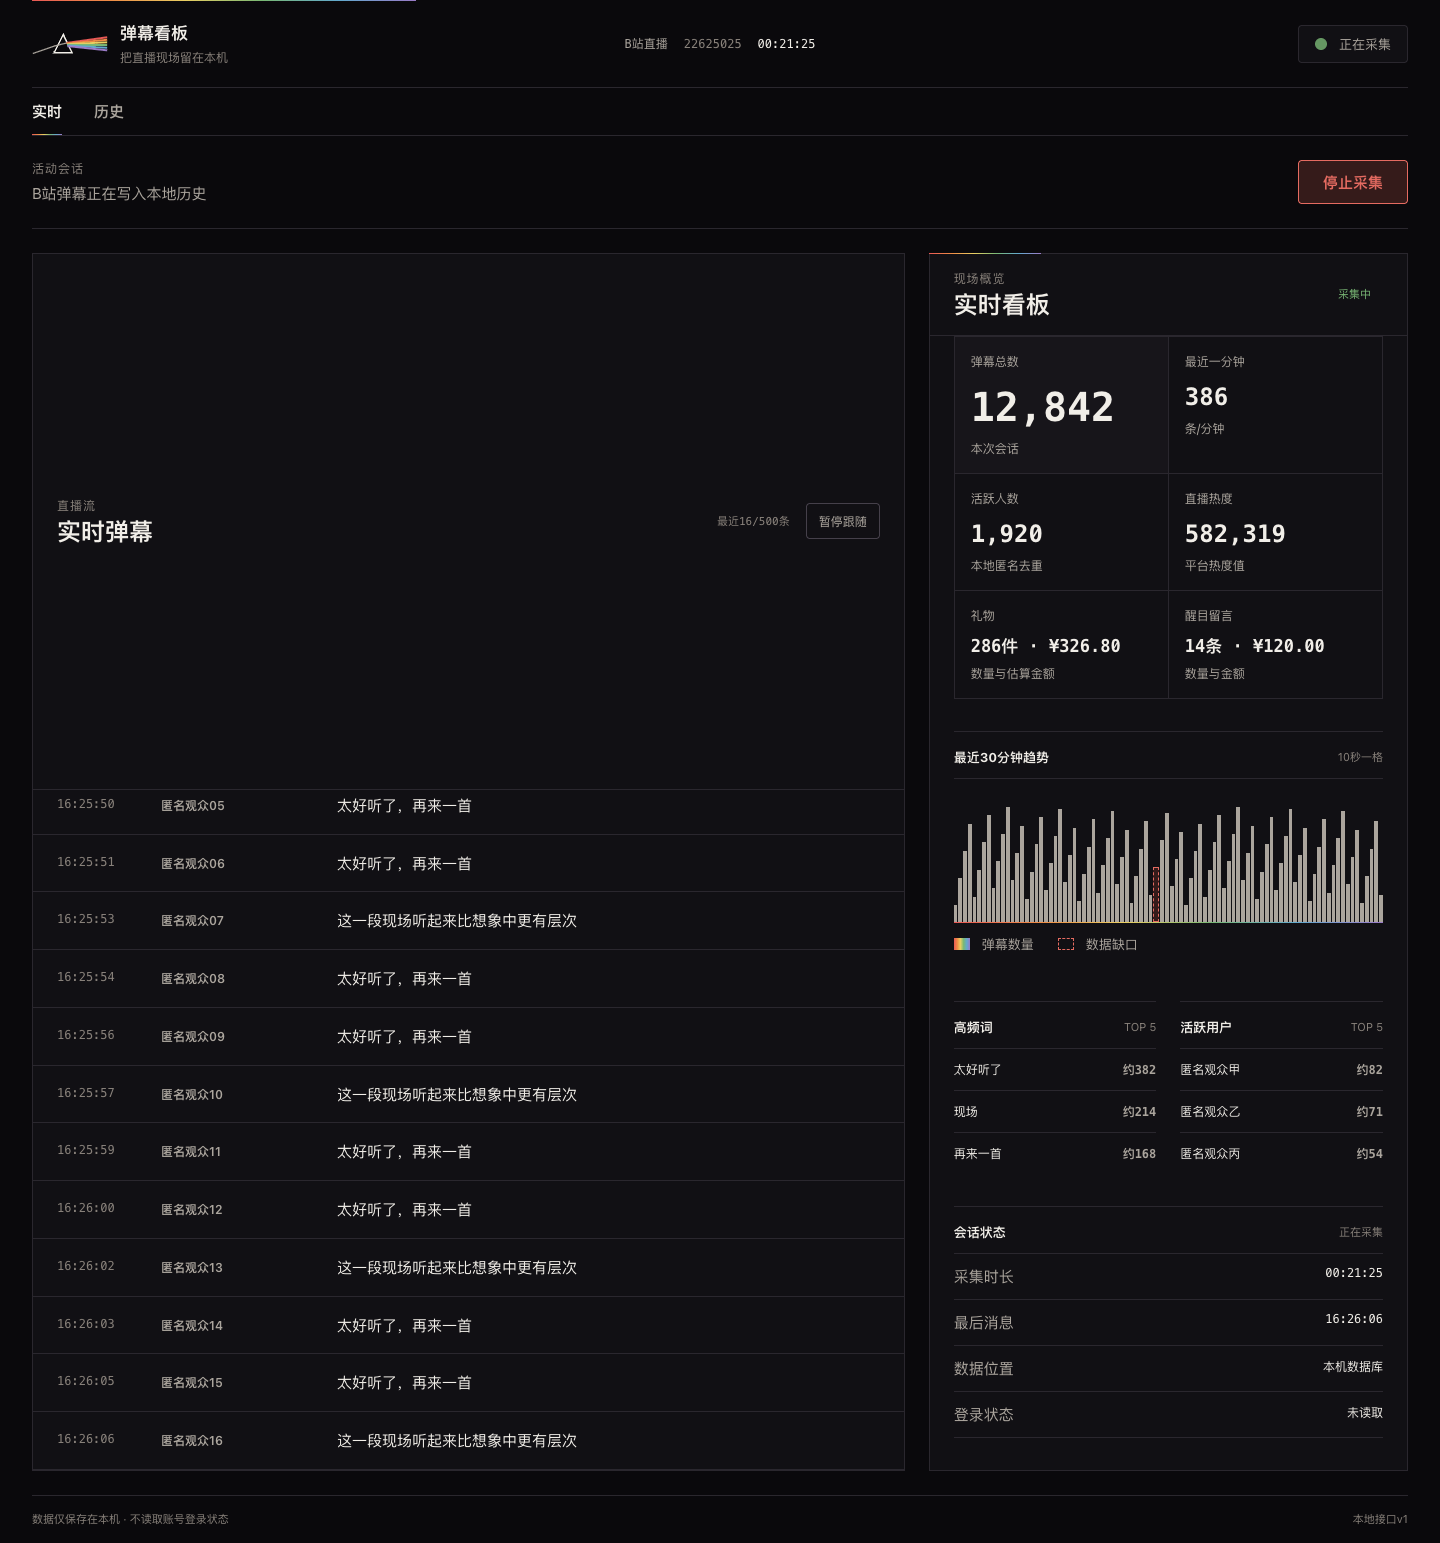
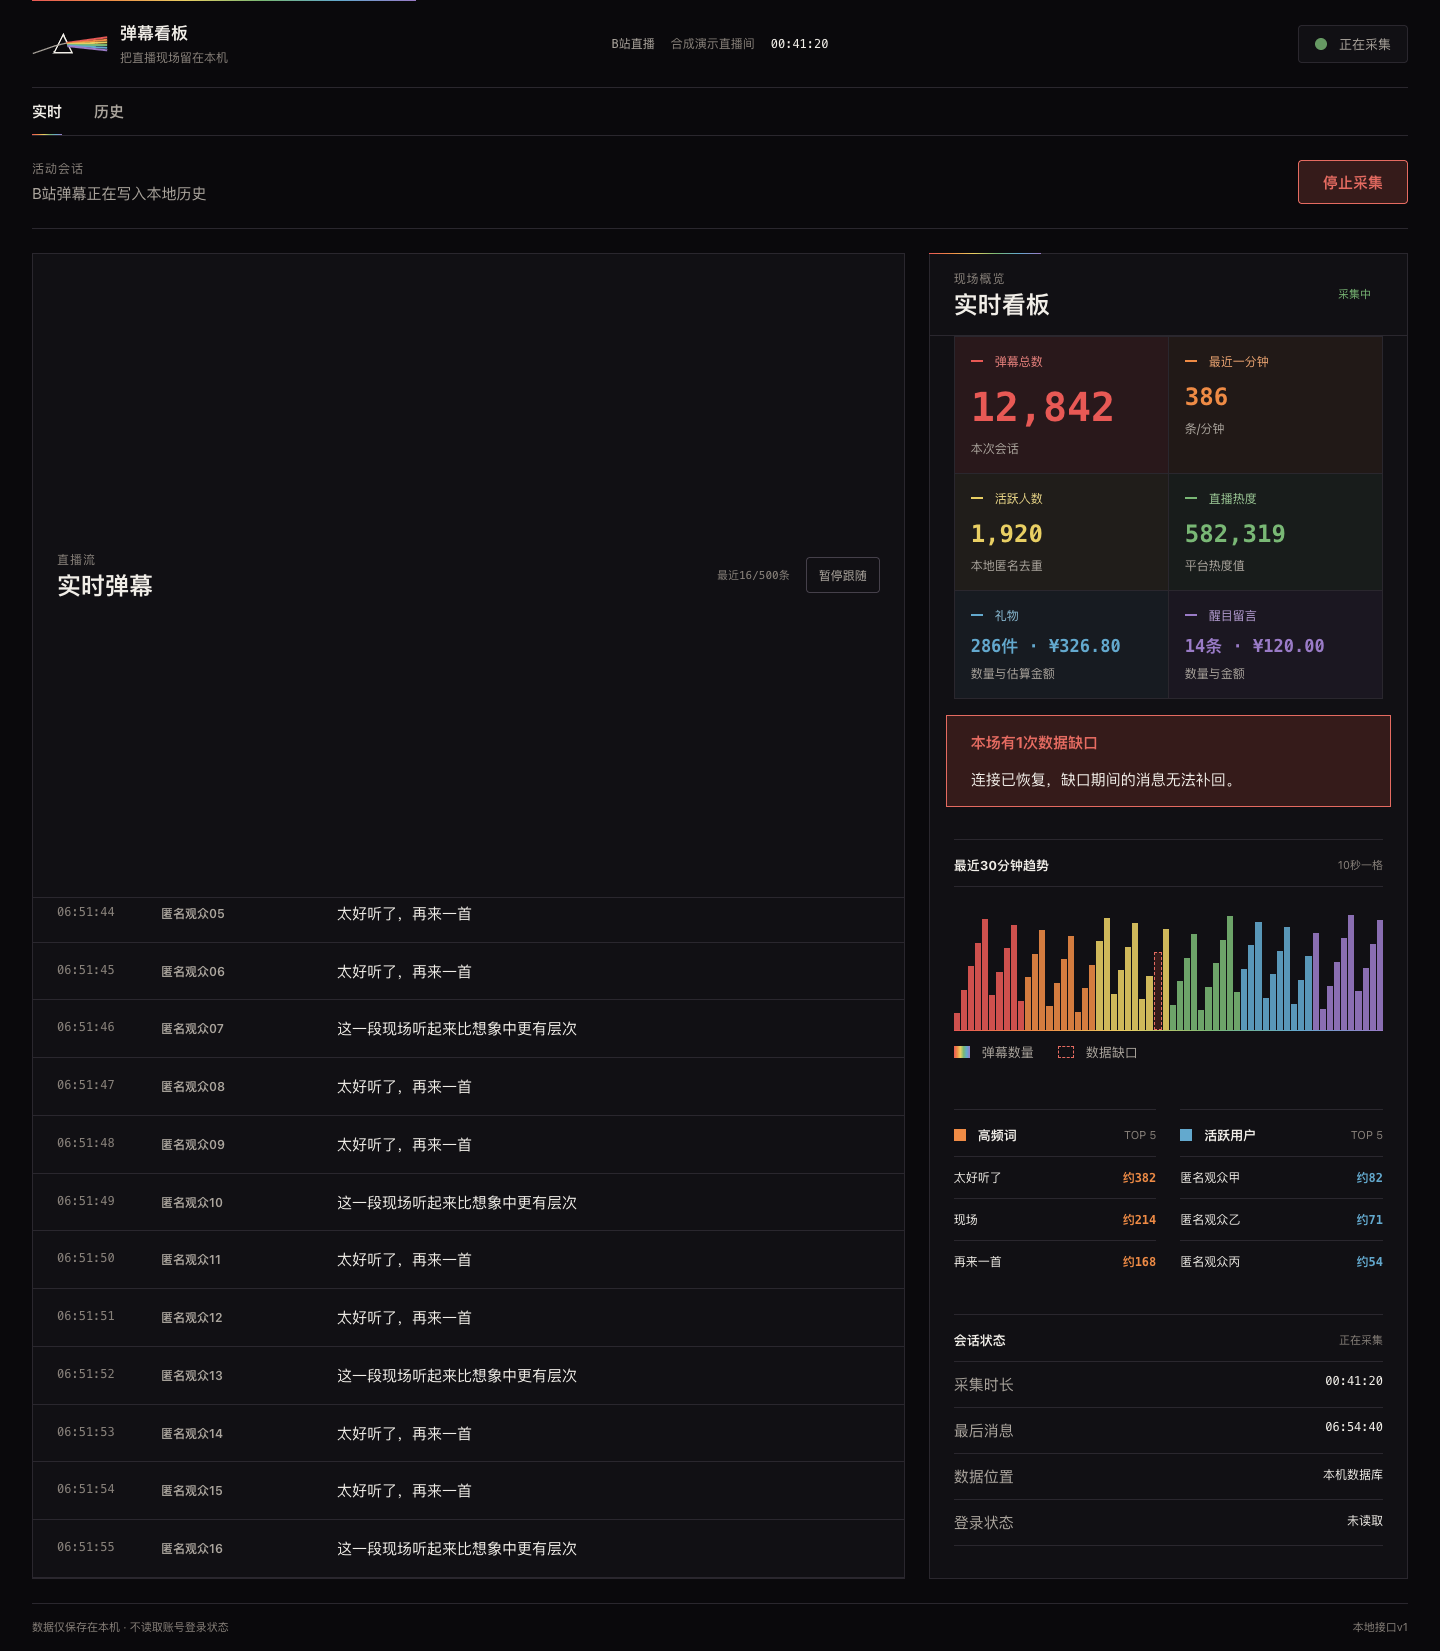
增强实时看板色彩辨识度

diff --git a/src/renderer/app.tsx b/src/renderer/app.tsx
@@ -118,17 +118,19 @@ function MetricCard({
   label,
   value,
   note,
+  tone,
   unavailable = false,
   primary = false,
 }: {
   label: string
   value: string
   note: string
+  tone: 'red' | 'orange' | 'yellow' | 'green' | 'blue' | 'violet'
   unavailable?: boolean
   primary?: boolean
 }) {
   return (
-    <div className={`metric-card ${primary ? 'metric-primary' : ''}`}>
+    <div className={`metric-card metric-tone-${tone} ${primary ? 'metric-primary' : ''}`}>
       <dt>{label}</dt>
       <dd className={unavailable ? 'metric-unavailable' : undefined}>
         {unavailable ? '不可用' : value}
@@ -150,14 +152,17 @@ function TrendChart({ trend }: { trend: LiveSnapshot['trend'] }) {
         {trend.length === 0 ? (
           <p className="signal-empty">收到弹幕后生成趋势</p>
         ) : (
-          trend.map((bucket) => (
-            <span
-              className={bucket.hasGap ? 'trend-gap' : ''}
-              key={bucket.bucketStartMs}
-              title={`${formatClock(bucket.bucketStartMs)}，${bucket.danmakuCount}条${bucket.hasGap ? '，数据缺口' : ''}`}
-              style={{ height: `${Math.max(8, (bucket.danmakuCount / max) * 100)}%` }}
-            />
-          ))
+          trend.map((bucket, index) => {
+            const spectrumBand = Math.min(5, Math.floor((index * 6) / trend.length))
+            return (
+              <span
+                className={bucket.hasGap ? 'trend-gap' : `trend-spectrum-${spectrumBand}`}
+                key={bucket.bucketStartMs}
+                title={`${formatClock(bucket.bucketStartMs)}，${bucket.danmakuCount}条${bucket.hasGap ? '，数据缺口' : ''}`}
+                style={{ height: `${Math.max(8, (bucket.danmakuCount / max) * 100)}%` }}
+              />
+            )
+          })
         )}
       </div>
       <p className="trend-legend">
@@ -173,13 +178,15 @@ function RankingCard({
   title,
   empty,
   items,
+  tone,
 }: {
   title: string
   empty: string
   items: Array<{ label: string; count: number }>
+  tone: 'warm' | 'cool'
 }) {
   return (
-    <section className="signal-card ranking-card">
+    <section className={`signal-card ranking-card ranking-tone-${tone}`}>
       <div className="section-heading">
         <h3>{title}</h3>
         <span>TOP 5</span>
@@ -677,34 +684,40 @@ export function App() {
                   label="弹幕总数"
                   value={snapshot.totalDanmaku.toLocaleString('zh-CN')}
                   note="本次会话"
+                  tone="red"
                   primary
                 />
                 <MetricCard
                   label="最近一分钟"
                   value={snapshot.danmakuPerMinute.toLocaleString('zh-CN')}
                   note="条/分钟"
+                  tone="orange"
                 />
                 <MetricCard
                   label="活跃人数"
                   value={snapshot.activeSpeakers.toLocaleString('zh-CN')}
                   note="本地匿名去重"
+                  tone="yellow"
                 />
                 <MetricCard
                   label="直播热度"
                   value={(snapshot.metrics.popularity ?? 0).toLocaleString('zh-CN')}
                   note="平台热度值"
+                  tone="green"
                   unavailable={currentUnavailable.popularity}
                 />
                 <MetricCard
                   label="礼物"
                   value={`${snapshot.metrics.giftCount.toLocaleString('zh-CN')}件 · ${formatMoney(snapshot.metrics.giftValueMilliCny)}`}
                   note="数量与估算金额"
+                  tone="blue"
                   unavailable={currentUnavailable.gifts}
                 />
                 <MetricCard
                   label="醒目留言"
                   value={`${snapshot.metrics.superChatCount.toLocaleString('zh-CN')}条 · ${formatMoney(snapshot.metrics.superChatValueMilliCny)}`}
                   note="数量与金额"
+                  tone="violet"
                   unavailable={currentUnavailable.superChats}
                 />
               </dl>
@@ -729,6 +742,7 @@ export function App() {
                     label: item.term,
                     count: item.estimatedCount,
                   }))}
+                  tone="warm"
                 />
                 <RankingCard
                   title="活跃用户"
@@ -737,6 +751,7 @@ export function App() {
                     label: item.displayName,
                     count: item.danmakuCount,
                   }))}
+                  tone="cool"
                 />
               </div>
 

diff --git a/src/renderer/styles/prism-theme.css b/src/renderer/styles/prism-theme.css
@@ -354,24 +354,66 @@ body {
 }
 
 .metric-card {
+  --metric-accent: var(--color-text);
+
   padding: var(--space-3);
   border: 0;
   border-right: var(--line-thin) solid var(--color-line);
   border-bottom: var(--line-thin) solid var(--color-line);
-  background: transparent;
+  background: color-mix(in srgb, var(--metric-accent) 7%, var(--color-panel));
 }
 
 .metric-primary {
-  background: var(--color-panel-raised);
+  background: color-mix(in srgb, var(--metric-accent) 11%, var(--color-panel));
+}
+
+.metric-tone-red {
+  --metric-accent: var(--color-spectrum-red);
+}
+
+.metric-tone-orange {
+  --metric-accent: var(--color-spectrum-orange);
+}
+
+.metric-tone-yellow {
+  --metric-accent: var(--color-spectrum-yellow);
+}
+
+.metric-tone-green {
+  --metric-accent: var(--color-spectrum-green);
+}
+
+.metric-tone-blue {
+  --metric-accent: var(--color-spectrum-blue);
+}
+
+.metric-tone-violet {
+  --metric-accent: var(--color-spectrum-violet);
+}
+
+.metric-card dt {
+  display: flex;
+  align-items: center;
+  gap: var(--space-2);
+  color: color-mix(in srgb, var(--metric-accent) 72%, var(--color-text));
+}
+
+.metric-card dt::before {
+  width: var(--space-2);
+  height: calc(var(--line-thin) * 2);
+  flex: none;
+  background: var(--metric-accent);
+  content: '';
 }
 
 .metric-card dd {
+  color: var(--metric-accent);
   font-size: var(--font-size-title);
   font-weight: 600;
 }
 
 .metric-card.metric-primary dd {
-  color: var(--color-text);
+  color: var(--metric-accent);
   font-size: var(--font-size-metric-hero);
 }
 
@@ -422,11 +464,37 @@ body {
   min-width: 2px;
   border-radius: 0;
   background: var(--color-text-muted);
+  opacity: 0.88;
+}
+
+.trend-bars > span.trend-spectrum-0 {
+  background: var(--color-spectrum-red);
+}
+
+.trend-bars > span.trend-spectrum-1 {
+  background: var(--color-spectrum-orange);
+}
+
+.trend-bars > span.trend-spectrum-2 {
+  background: var(--color-spectrum-yellow);
+}
+
+.trend-bars > span.trend-spectrum-3 {
+  background: var(--color-spectrum-green);
+}
+
+.trend-bars > span.trend-spectrum-4 {
+  background: var(--color-spectrum-blue);
+}
+
+.trend-bars > span.trend-spectrum-5 {
+  background: var(--color-spectrum-violet);
 }
 
 .trend-bars > span.trend-gap {
   border-color: var(--color-coral);
   background: var(--color-coral-soft);
+  opacity: 1;
 }
 
 .trend-legend i {
@@ -447,11 +515,35 @@ body {
 }
 
 .ranking-card {
+  --ranking-accent: var(--color-text-muted);
+
   padding: var(--space-3) 0 0;
 }
 
+.ranking-tone-warm {
+  --ranking-accent: var(--color-spectrum-orange);
+}
+
+.ranking-tone-cool {
+  --ranking-accent: var(--color-spectrum-blue);
+}
+
+.ranking-card .section-heading h3 {
+  display: flex;
+  align-items: center;
+  gap: var(--space-2);
+}
+
+.ranking-card .section-heading h3::before {
+  width: var(--space-2);
+  height: var(--space-2);
+  flex: none;
+  background: var(--ranking-accent);
+  content: '';
+}
+
 .ranking-card li strong {
-  color: var(--color-text-muted);
+  color: var(--ranking-accent);
 }
 
 .section-heading > span {

diff --git a/tests/unit/app.test.tsx b/tests/unit/app.test.tsx
@@ -160,6 +160,32 @@ describe('App', () => {
     expect(within(dashboard).queryByText('¥0.00')).not.toBeInTheDocument()
   })
 
+  it('实时看板使用光谱区分指标、趋势与排行类别', async () => {
+    const { emit } = installApi()
+    render(<App />)
+    await screen.findByText('实时弹幕')
+
+    act(() => {
+      emit({
+        ...idleSnapshot,
+        trend: Array.from({ length: 6 }, (_, index) => ({
+          bucketStartMs: 1_700_000_000_000 + index * 10_000,
+          danmakuCount: index + 1,
+          hasGap: index === 3,
+        })),
+        keywords: [{ term: '合成高频词', estimatedCount: 12, errorBound: 1 }],
+        activeUsers: [{ displayName: '匿名观众甲', danmakuCount: 8 }],
+      })
+    })
+
+    const dashboard = screen.getByRole('complementary', { name: '实时看板' })
+    expect(dashboard.querySelectorAll('[class*="metric-tone-"]')).toHaveLength(6)
+    expect(dashboard.querySelectorAll('[class*="trend-spectrum-"]')).toHaveLength(5)
+    expect(dashboard.querySelector('.trend-gap')).toBeInTheDocument()
+    expect(dashboard.querySelector('.ranking-tone-warm')).toHaveTextContent('合成高频词')
+    expect(dashboard.querySelector('.ranking-tone-cool')).toHaveTextContent('匿名观众甲')
+  })
+
   it('可查看历史、搜索弹幕，并在二次确认后删除整场', async () => {
     const { api } = installApi()
     render(<App />)

diff --git a/DESIGN.md b/DESIGN.md
@@ -65,12 +65,12 @@ components:
 
 - 平面、低饱和、无网格背景。
 - 大区域靠明度和留白分层，边线保持细而克制。
-- 光谱作为连续整体使用，不拆成四处散落的霓虹强调色。
+- 光谱优先作为连续整体使用；实时看板允许把同一束光按固定顺序分配给相邻指标，不能随机散落或改变顺序。
 - 时间与数字可使用等宽字体，标题、控件和正文使用中文系统无衬线字体。
 
 ## Colors
 
-中性色承担绝大多数界面面积，光谱颜色只服务折射图形与趋势数据。
+中性色承担绝大多数界面面积，光谱颜色服务折射图形、趋势数据和看板类别辨识。
 
 ### Primary
 
@@ -88,7 +88,7 @@ components:
 
 ### Named Rules
 
-**The One Spectrum Rule.** 光谱每个视区只允许形成一个主要视觉运动，不能给每张卡片单独加彩色描边。
+**The One Spectrum Rule.** 光谱每个视区只允许形成一个主要视觉运动。统计矩阵必须按红、橙、黄、绿、蓝、紫的阅读顺序分配弱底色与数字颜色，不能使用独立彩色描边，也不能把颜色随机分配给无关组件。
 
 ## Typography
 
@@ -143,6 +143,13 @@ components:
 ### Prism Signature
 
 小尺寸用于品牌标记，大尺寸用于实时弹幕空状态。它不承载按钮行为，也不与文字重叠。实时趋势通过同序光谱柱状延续这一签名。
+
+### Dashboard Spectrum
+
+- 六项统计按红、橙、黄、绿、蓝、紫顺序排列，使用弱底色、短横线和数字颜色共同区分。
+- 30分钟趋势从左到右按时间分成六个连续色段，缺口仍使用红色虚线和文字图例。
+- 高频词使用暖色，活跃用户使用冷色；栏目标题、左右位置与文字标签继续提供非颜色提示。
+- 光谱颜色不能覆盖说明文字，正文和辅助文字继续使用暖灰分级。
 
 ## Do's and Don'ts
 

diff --git a/docs/releases/v0.1.1.md b/docs/releases/v0.1.1.md
@@ -1,0 +1,28 @@
+# 弹幕看板v0.1.1
+
+这个补丁版本提高了实时看板的色彩辨识度，macOS与Windows版本同步更新。
+
+## 下载哪个文件
+
+- Apple Silicon Mac：`danmaku-dashboard-0.1.1-macos-arm64.dmg`
+- Windows 10/11 x64：`danmaku-dashboard-0.1.1-windows-x64.zip`
+
+Windows版是便携版。请完整解压ZIP，再运行目录中的`弹幕看板.exe`。当前macOS与Windows发行版均未购买商业代码签名，系统首次打开时可能显示未知开发者或未知发布者提示。
+
+## 本次更新
+
+- 六项实时指标按红、橙、黄、绿、蓝、紫的折射顺序显示弱底色、短横线和数字颜色。
+- 30分钟趋势按时间从暖色连续过渡到冷色，数据缺口继续使用红色虚线标记。
+- 高频词使用暖色，活跃用户使用冷色，排行类别更容易区分。
+- 保留文字标签、固定位置和缺口图例，颜色不是识别信息的唯一方式。
+- 更新GitHub详情页的合成数据预览图。
+
+## 验证记录
+
+- 24个单元测试文件，共55项测试通过。
+- 1个SQLite集成测试文件，共4项测试通过。
+- 六种指标数字与对应底色的对比度均高于5:1。
+- 1440px宽窗口和580px窄窗口均无横向溢出，浏览器控制台没有运行错误。
+- macOS与Windows发行产物继续执行架构、Fuse、asar、SQLite运行时和性能检查。
+
+完整安装方法、数据目录、隐私边界和自行构建步骤请查看[项目README](https://github.com/932425174raul-lgtm/danmaku-dashboard#readme)。

diff --git a/WORKLOG.md b/WORKLOG.md
@@ -34,6 +34,7 @@
 
 ## 2026-08-12
 
+- 提高实时看板的色彩辨识度：六项指标按折射顺序使用红、橙、黄、绿、蓝、紫的数值与弱底色，30分钟趋势按时间从暖色过渡到冷色，高频词与活跃用户分别使用暖色和冷色；文字标签、位置和缺口虚线继续提供非颜色提示。
 - 增加Windows 10/11 x64便携ZIP构建、Windows图标、平台匹配User-Agent、平台数据目录与真实Windows Runner产物验收；CI同时验证SQLite双Worker、正式EXE运行时探针和每秒200条smoke门槛。
 - 修正Windows下`@electron/asar`使用反斜杠返回归档条目导致的校验器误报，归档路径统一规范化后再执行内容允许清单与禁止清单检查。
 - 完成面向交付版的主界面：默认B站并可切换抖音，实时页同时提供有限500条的弹幕流、自动跟随控制、六项核心看板指标与匿名能力说明，窄窗口改用弹幕和看板页签。
